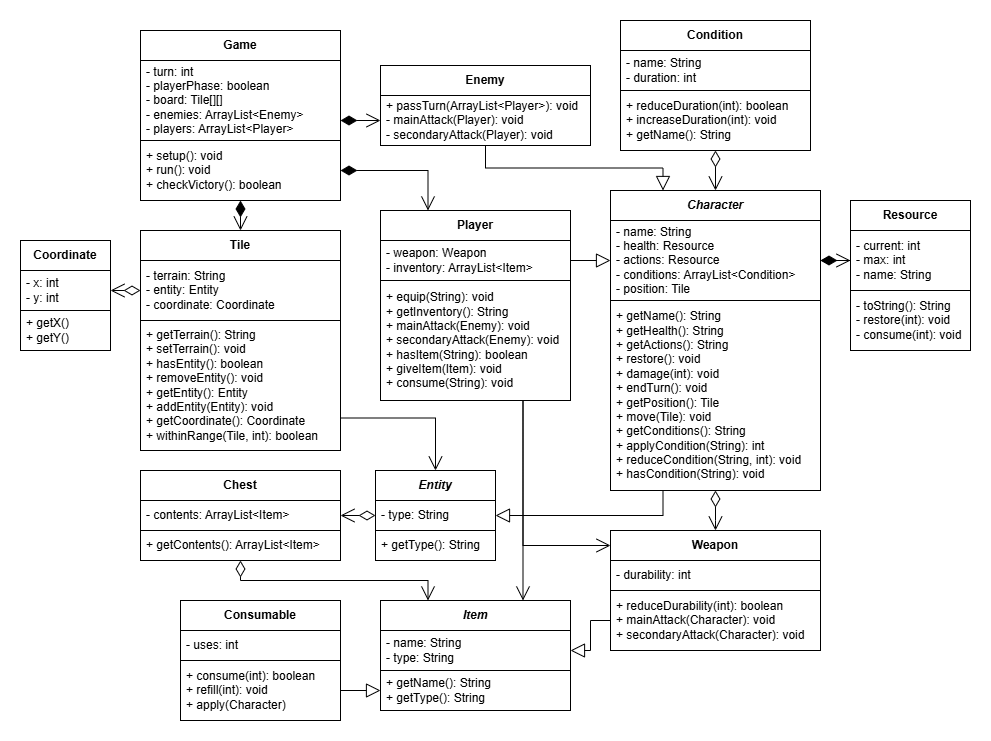
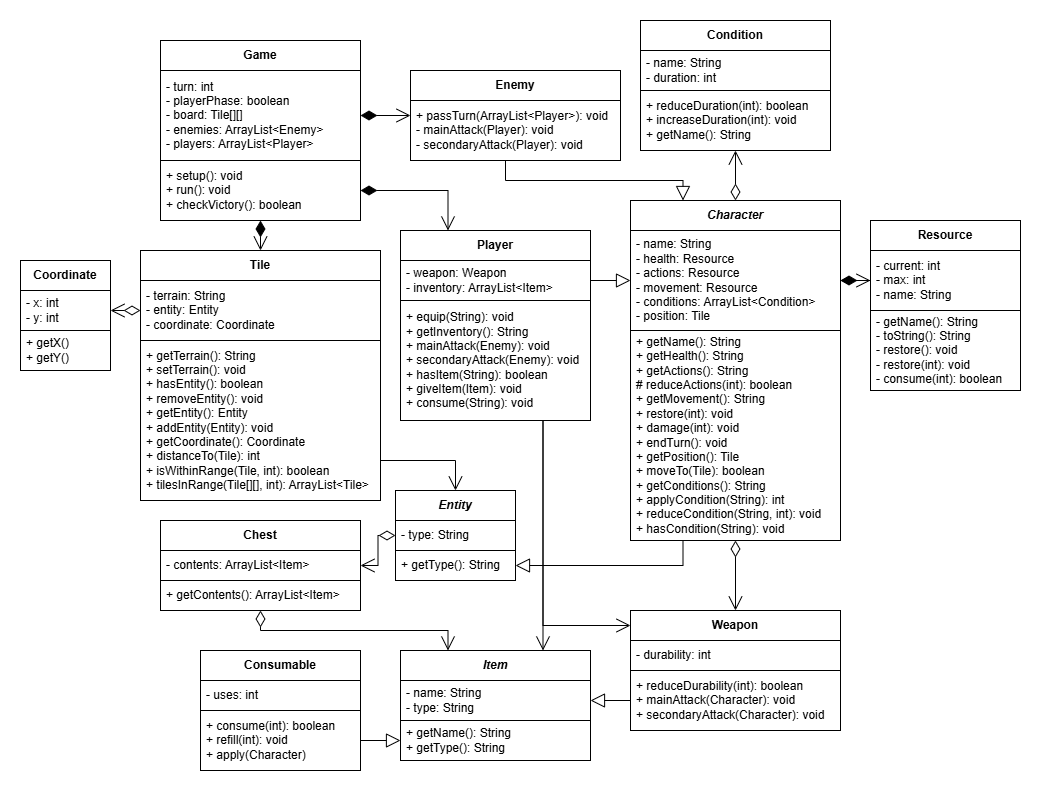
Updated documentation

Changed region(s): [[0.0, 0.0, 0.999, 0.9933], [0.5449, 0.3725, 0.5752, 0.4035]]

diff --git a/Character.java b/Character.java
@@ -1,5 +1,3 @@
-import java.util.ArrayList;
-
 abstract class Character extends Entity {
   private String name;
   private Resource health;

diff --git a/DEVLOG-James.md b/DEVLOG-James.md
@@ -5,6 +5,6 @@ This document must be updated daily every time you finish a work session.
 ## James Lei
 
 ### 2025-05-22 - Brief description
-Completed work on the Tile class, without different types of terrain. Created basic functionality for character. Implemented the helper classes of Resource and Coordinate.
+Completed work on the Tile class, without different types of terrain. Created basic functionality for character. Implemented the helper classes of Resource and Coordinate. Allowed Tiles to find tiles within range.
 
 ### 2024-01-03 - Brief description
